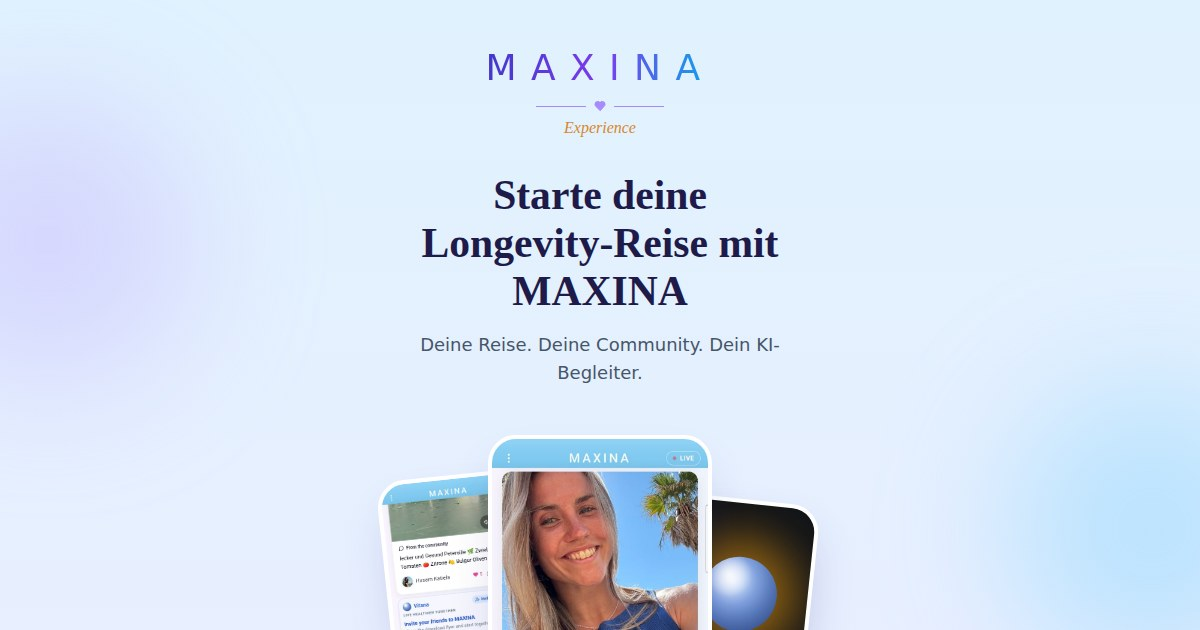
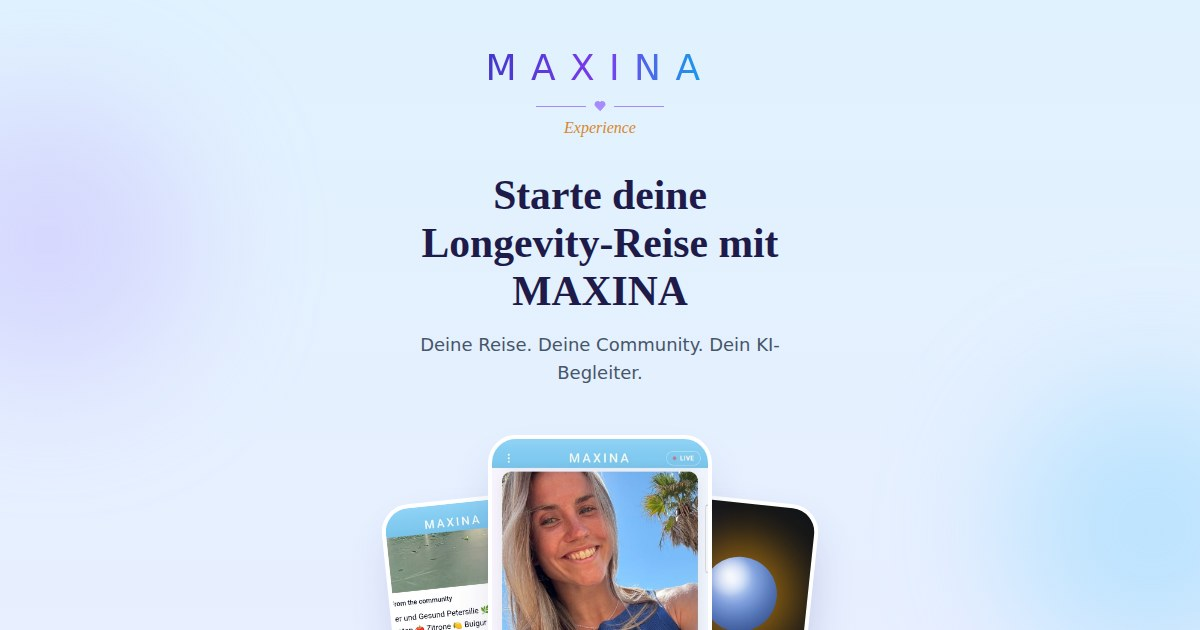
fix(flyer): make collage side cards symmetric
Left phone and right orb card now share the same dimensions (w-36 h-64),
top offset, edge inset, and mirrored rotation; the left screenshot fills
its frame via object-cover instead of dictating the card height.

Claude-Session: https://claude.ai/code/session_01PiKt8GCXow9kg5omgYqVnW

Changed region(s): [[0.3083, 0.754, 0.4317, 1.0]]

diff --git a/src/pages/DownloadFlyer.tsx b/src/pages/DownloadFlyer.tsx
@@ -62,10 +62,10 @@ function FeatureRow({ icon, title, body }: { icon: React.ReactNode; title: strin
 }
 
 /** White-bezel phone frame around a real app screenshot. */
-function PhoneShot({ src, className }: { src: string; className?: string }) {
+function PhoneShot({ src, className, fill }: { src: string; className?: string; fill?: boolean }) {
   return (
     <div className={`overflow-hidden rounded-[1.75rem] border-4 border-white bg-white shadow-2xl shadow-indigo-900/20 dark:border-slate-700 dark:bg-slate-800 ${className ?? ''}`}>
-      <img src={src} alt="" aria-hidden="true" className="block w-full" />
+      <img src={src} alt="" aria-hidden="true" className={fill ? 'block h-full w-full object-cover object-top' : 'block w-full'} />
     </div>
   );
 }
@@ -122,9 +122,9 @@ export default function DownloadFlyer() {
 
         {/* Phone collage — real app screens */}
         <div className="relative mt-12 h-[440px] w-full">
-          <div className="absolute -left-4 top-10 w-36 -rotate-6">
-            <PhoneShot src="/images/flyer/phone-home.jpg" />
-          </div>
+          {/* Side cards mirror each other: same size (w-36 h-64), same top
+              offset, opposite edge inset and rotation as the orb card. */}
+          <PhoneShot src="/images/flyer/phone-home.jpg" fill className="absolute -left-2 top-16 h-64 w-36 -rotate-6" />
           {/* Vitana orb card — replica of the real "Vitana speaking" screen:
               steel-blue orb (vitana-orb-clean.svg) with amber glow on a
               near-black screen, caption + mic/close controls. */}
